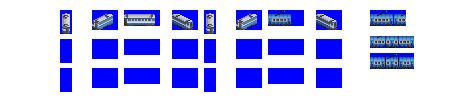
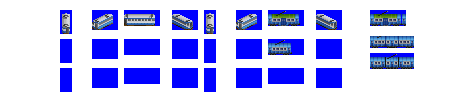
Change: (WIP) more progress on pax trams – views

Changed region(s): [[0.5846, 0.12, 0.6769, 0.27], [0.8, 0.12, 0.8923, 0.27], [0.5846, 0.42, 0.6462, 0.57]]

diff --git a/src/vehicles/twinhills.py b/src/vehicles/twinhills.py
@@ -12,16 +12,9 @@ consist = PaxHauler(id = 'twinhills',
 
 consist.add_unit(weight = 18,
                 capacity = 80,
-                vehicle_length = 7,
-                effects = ['EFFECT_SPRITE_ELECTRIC, 0, 0, 10'])
-
-consist.add_unit(weight = 18,
-                capacity = 80,
-                vehicle_length = 5)
-
-consist.add_unit(weight = 18,
-                capacity = 80,
-                vehicle_length = 7)
+                vehicle_length = 8,
+                effects = ['EFFECT_SPRITE_ELECTRIC, 0, 0, 10'],
+                repeat = 2)
 
 consist.add_model_variant(intro_date=0,
                        end_date=global_constants.max_game_date,

diff --git a/src/vehicles/northbeach.py b/src/vehicles/northbeach.py
@@ -12,7 +12,7 @@ consist = PaxHauler(id = 'northbeach',
 
 consist.add_unit(weight = 20,
                 capacity = 100,
-                vehicle_length = 6,
+                vehicle_length = 8,
                 effects = ['EFFECT_SPRITE_ELECTRIC, 0, 0, 12'],
                 repeat = 2)
 
